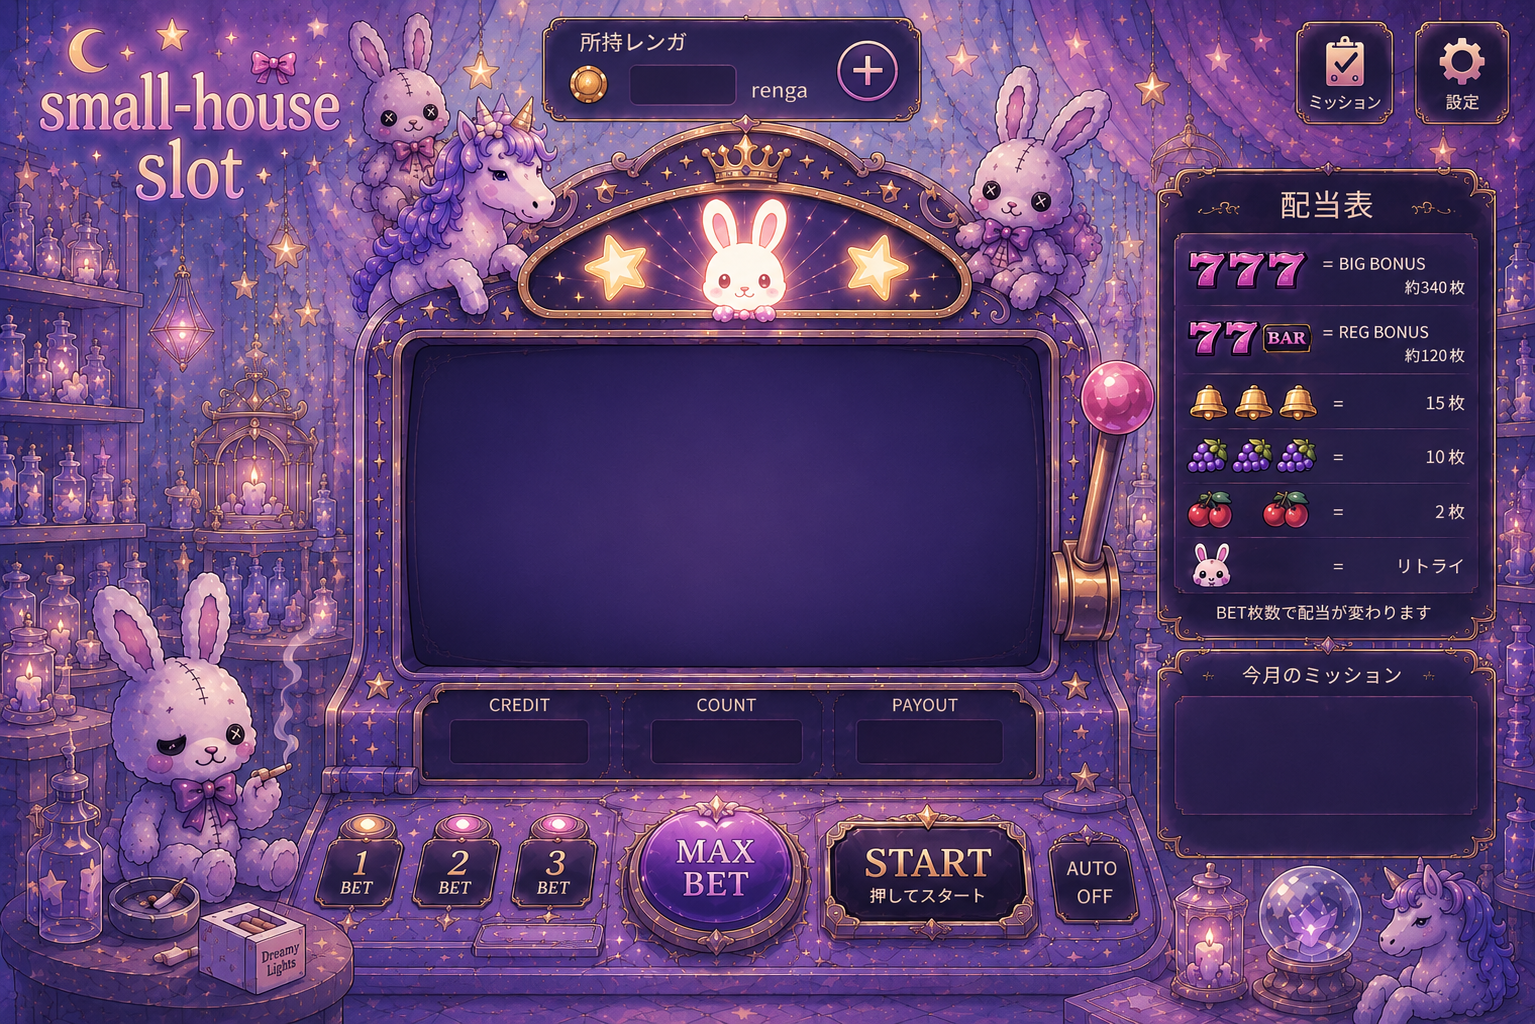
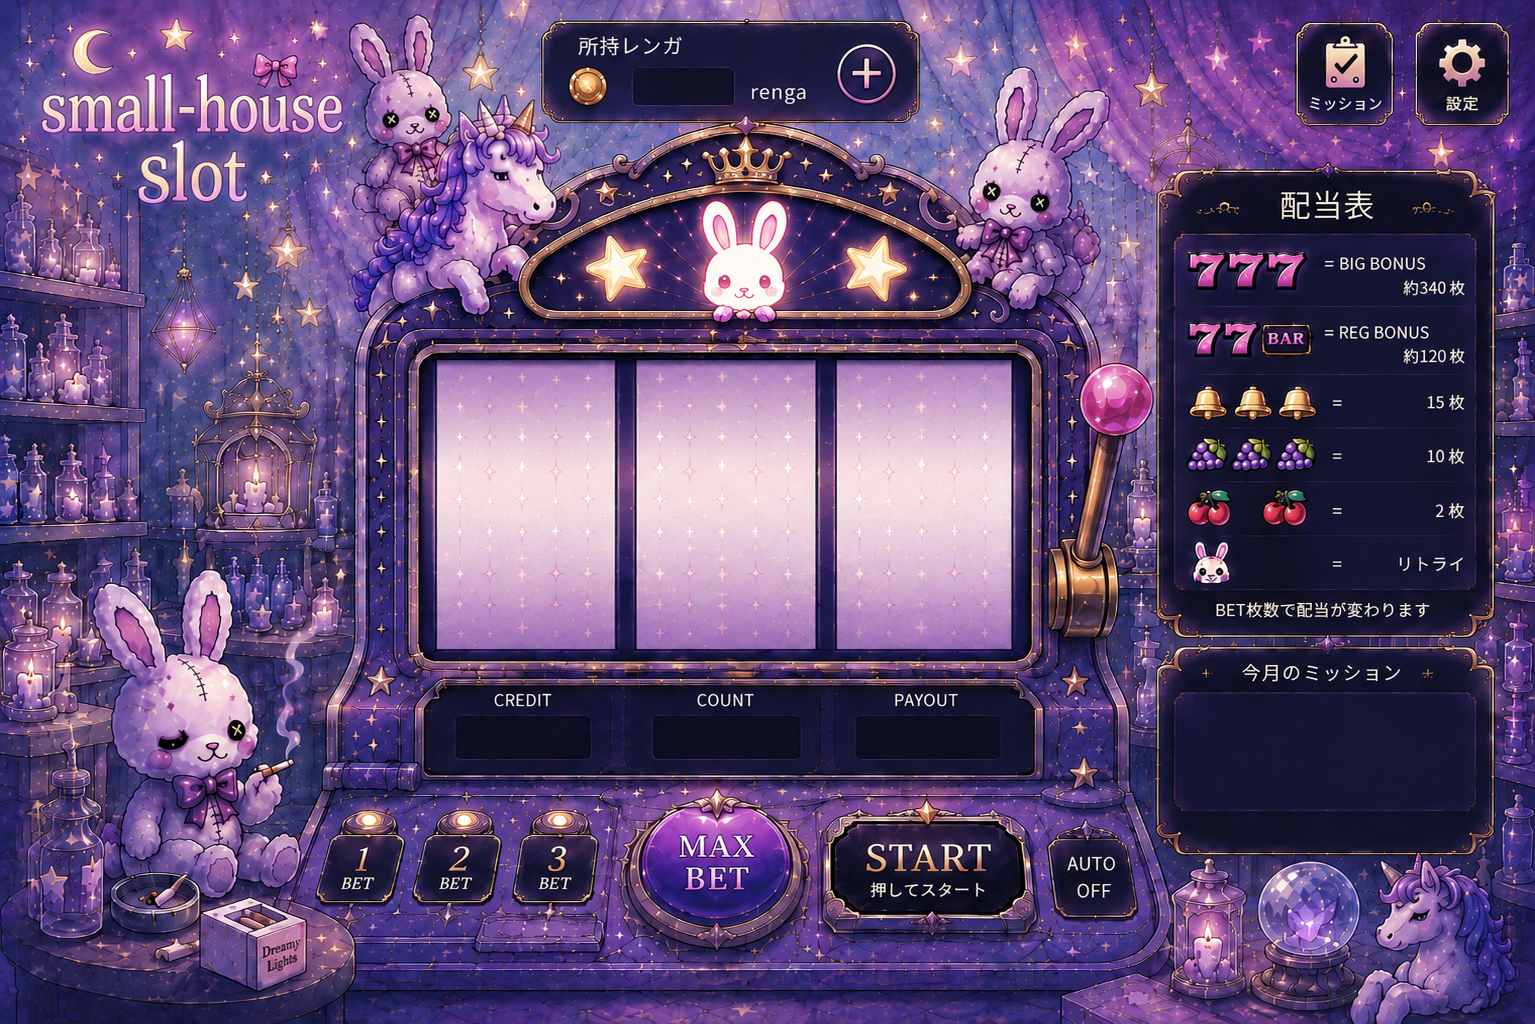
スロット見た目

diff --git a/slot/public/script.js b/slot/public/script.js
@@ -6,11 +6,9 @@ function pressButton(button){
 
         button.classList.remove("pressed");
 
-    },120);
+    },150);
 
 }
-
-/* ボタン取得 */
 
 const bet1 = document.getElementById("bet1");
 const bet2 = document.getElementById("bet2");
@@ -23,65 +21,76 @@ const autoBtn = document.getElementById("autoBtn");
 const missionBtn = document.getElementById("missionBtn");
 const settingBtn = document.getElementById("settingBtn");
 
-/* クリック操作 */
+const symbols = [
 
-bet1.onclick = () => {
+    "../image/seven.png",
+    "../image/bar.png",
+    "../image/bell.png",
+    "../image/grape.png",
+    "../image/cherry.png",
+    "../image/rabbit.png"
 
-    pressButton(bet1);
-    console.log("1BET");
+];
 
-};
+function createReel(reelId){
 
-bet2.onclick = () => {
+    const reel = document.getElementById(reelId);
 
-    pressButton(bet2);
-    console.log("2BET");
+    reel.innerHTML = "";
 
-};
+    for(let i=0;i<3;i++){
 
-bet3.onclick = () => {
+        const div = document.createElement("div");
 
-    pressButton(bet3);
-    console.log("3BET");
+        div.className = "symbol";
 
-};
+        const img = document.createElement("img");
 
-maxBet.onclick = () => {
+        img.src = symbols[Math.floor(Math.random()*symbols.length)];
 
-    pressButton(maxBet);
-    console.log("MAX BET");
+        div.appendChild(img);
 
-};
+        reel.appendChild(div);
 
-startBtn.onclick = () => {
+    }
 
-    pressButton(startBtn);
-    console.log("START");
+}
 
-};
+createReel("reel1");
+createReel("reel2");
+createReel("reel3");
 
-autoBtn.onclick = () => {
+function setButton(button,name,action){
 
-    pressButton(autoBtn);
-    console.log("AUTO");
+    button.addEventListener("click",() => {
 
-};
+        pressButton(button);
+        console.log(name);
 
-missionBtn.onclick = () => {
+        if(action){
+            action();
+        }
 
-    pressButton(missionBtn);
-    console.log("MISSION");
+    });
 
-};
+}
 
-settingBtn.onclick = () => {
+setButton(bet1,"1BET");
+setButton(bet2,"2BET");
+setButton(bet3,"3BET");
+setButton(maxBet,"MAX BET");
 
-    pressButton(settingBtn);
-    console.log("SETTING");
+setButton(startBtn,"START",() => {
 
-};
+    createReel("reel1");
+    createReel("reel2");
+    createReel("reel3");
 
-/* キーボード操作 */
+});
+
+setButton(autoBtn,"AUTO");
+setButton(missionBtn,"MISSION");
+setButton(settingBtn,"SETTING");
 
 document.addEventListener("keydown",(e)=>{
 
@@ -91,10 +100,13 @@ document.addEventListener("keydown",(e)=>{
 
     if(e.key==="3") bet3.click();
 
-    if(e.key==="m") maxBet.click();
+    if(e.key==="m" || e.key==="M") maxBet.click();
 
-    if(e.code==="Space") startBtn.click();
+    if(e.code==="Space"){
+        e.preventDefault();
+        startBtn.click();
+    }
 
-    if(e.key==="a") autoBtn.click();
+    if(e.key==="a" || e.key==="A") autoBtn.click();
 
 });

diff --git a/slot/public/style.css b/slot/public/style.css
@@ -22,15 +22,19 @@ body{
 }
 
 #background{
+    position:absolute;
+    top:0;
+    left:0;
+
     width:100%;
     height:100%;
     object-fit:contain;
 
     user-select:none;
     pointer-events:none;
-}
 
-/* 所持レンガ */
+    z-index:1;
+}
 
 #rengaText{
     position:absolute;
@@ -49,24 +53,72 @@ body{
     text-shadow:
         0 0 8px #ff80ff,
         0 0 16px #ff80ff;
-}
 
-/* リール配置予定地 */
+    z-index:5;
+}
 
 #reelArea{
     position:absolute;
 
     top:33%;
-    left:26%;
+    left:25.8%;
 
-    width:42%;
+    width:42.5%;
     height:28%;
 
-    border:none;
+    overflow:hidden;
+
+    z-index:4;
 }
 
-/* ミッション表示 */
+.reel{
+    position:absolute;
 
+    top:0;
+
+    width:30%;
+    height:100%;
+
+    overflow:hidden;
+
+    display:flex;
+    flex-direction:column;
+    align-items:center;
+    justify-content:space-around;
+}
+
+#reel1{
+    left:2.1%;
+}
+
+#reel2{
+    left:35%;
+}
+
+#reel3{
+    left:67.9%;
+}
+
+.symbol{
+    width:100%;
+    height:33.333%;
+
+    display:flex;
+    justify-content:center;
+    align-items:center;
+
+    overflow:hidden;
+}
+
+.symbol img{
+    width:120%;
+    height:120%;
+
+    object-fit:contain;
+
+    display:block;
+    margin:auto;
+}
 #missionArea{
     position:absolute;
 
@@ -92,6 +144,8 @@ body{
     text-shadow:
         0 0 8px #ff80ff,
         0 0 14px #ff80ff;
+
+    z-index:5;
 }
 
 #missionArea p{
@@ -104,12 +158,14 @@ body{
     position:absolute;
 
     border:none;
-    background:transparent;
+    background:rgba(255,255,255,0);
 
     cursor:pointer;
     border-radius:20px;
 
     transition:0.1s;
+
+    z-index:20;
 }
 
 /* 押された演出 */
@@ -120,14 +176,15 @@ body{
         translateY(4px);
 
     background:
-        rgba(255,255,255,0.15);
+        rgba(255,255,255,0.25);
 
     box-shadow:
         0 0 20px #ffccff,
-        0 0 40px #ff99ff;
+        0 0 40px #ff99ff,
+        0 0 60px #ffffff;
 }
 
-/* BET */
+/* 位置 */
 
 #bet1{
     left:20%;
@@ -150,16 +207,13 @@ body{
     height:8%;
 }
 
-/* MAX BET */
-
 #maxBet{
     left:43%;
     top:82%;
     width:8%;
     height:11%;
+    border-radius:50%;
 }
-
-/* START */
 
 #startBtn{
     left:54%;
@@ -168,8 +222,6 @@ body{
     height:9%;
 }
 
-/* AUTO */
-
 #autoBtn{
     left:68%;
     top:84%;
@@ -177,16 +229,12 @@ body{
     height:9%;
 }
 
-/* ミッションボタン */
-
 #missionBtn{
     left:86%;
     top:3%;
     width:5%;
     height:9%;
 }
-
-/* 設定ボタン */
 
 #settingBtn{
     left:93%;

diff --git a/slot/public/index.html b/slot/public/index.html
@@ -13,20 +13,22 @@
 
         <img src="../image/background.png" id="background">
 
-        <!-- 所持レンガの数字 -->
         <div id="rengaText">1000</div>
 
-        <!-- 後でリールを入れる場所 -->
-        <div id="reelArea"></div>
+        <div id="reelArea">
 
-        <!-- 後でミッションを入れる場所 -->
+            <div class="reel" id="reel1"></div>
+            <div class="reel" id="reel2"></div>
+            <div class="reel" id="reel3"></div>
+
+        </div>
+
         <div id="missionArea">
             <p>今月のミッション</p>
             <p>BIGを1回当てる　0/1</p>
             <p>ぶどうを10回そろえる　0/10</p>
         </div>
 
-        <!-- 透明ボタン -->
         <button class="hotspot" id="bet1"></button>
         <button class="hotspot" id="bet2"></button>
         <button class="hotspot" id="bet3"></button>
